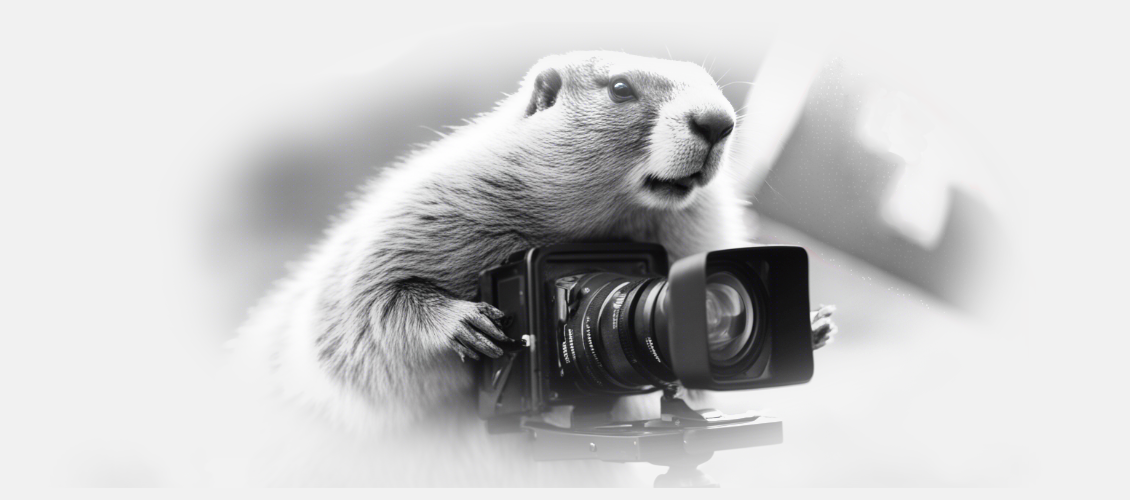
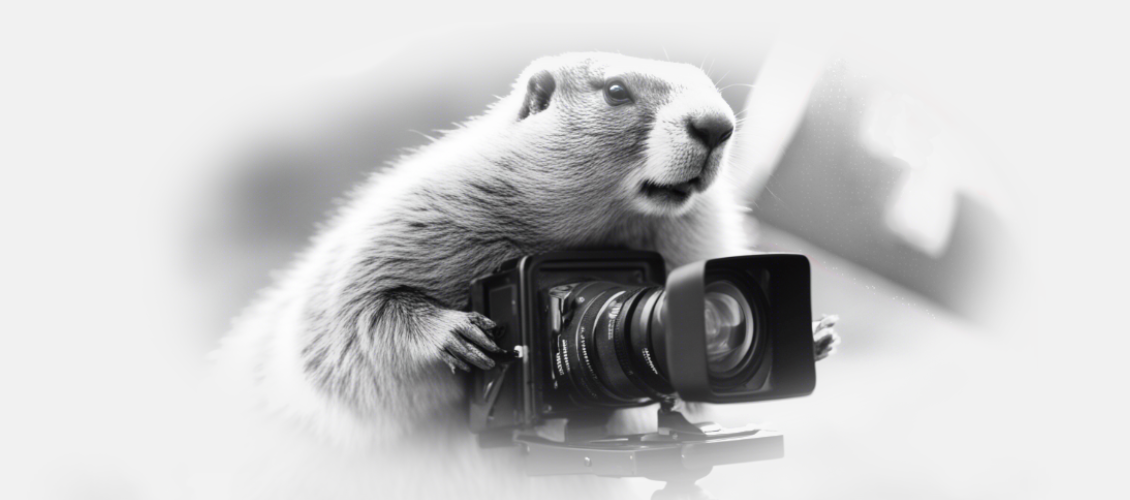
deploy: bd53ddb6d13e4023fa2d071ffb49345bf65f718e

diff --git a/index.html b/index.html
@@ -1,5 +1,5 @@
 <!doctype html><html class=no-js lang=fr-CH><head><meta name=generator content="Hugo 0.124.0"><meta charset=utf-8><meta http-equiv=x-ua-compatible content="ie=edge"><meta name=viewport content="width=device-width,initial-scale=1"><title>Index - Marmotte Productions</title>
-<meta name=description content="Page index du site (texte descriptif court + liste projets en cours)"><meta name=robots content="index, follow"><link rel="shortcut icon" href=/favicon.ico><style>@font-face{font-family:open sans;font-weight:600;font-style:normal;src:url(//fonts.gstatic.com/s/opensans/v13/MTP_ySUJH_bn48VBG8sNSnZ2MAKAc2x4R1uOSeegc5U.eot);src:url(//fonts.gstatic.com/s/opensans/v13/MTP_ySUJH_bn48VBG8sNSnZ2MAKAc2x4R1uOSeegc5U.eot?#iefix)format("embedded-opentype"),url(//fonts.gstatic.com/s/opensans/v13/MTP_ySUJH_bn48VBG8sNShampu5_7CjHW5spxoeN3Vs.woff2)format("woff2"),url(//fonts.gstatic.com/s/opensans/v13/MTP_ySUJH_bn48VBG8sNSqRDOzjiPcYnFooOUGCOsRk.woff)format("woff"),url(//fonts.gstatic.com/s/opensans/v13/MTP_ySUJH_bn48VBG8sNSonF5uFdDttMLvmWuJdhhgs.ttf)format("truetype"),url(//fonts.gstatic.com/l/font?kit=MTP_ySUJH_bn48VBG8sNSllIn5tFQcqMuf-jhyJP0ps&skey=a162967ffaa5aa08&v=v13#OpenSans)format("svg")}@font-face{font-family:open sans;font-weight:700;font-style:normal;src:url(//fonts.gstatic.com/s/opensans/v13/k3k702ZOKiLJc3WVjuplzHZ2MAKAc2x4R1uOSeegc5U.eot);src:url(//fonts.gstatic.com/s/opensans/v13/k3k702ZOKiLJc3WVjuplzHZ2MAKAc2x4R1uOSeegc5U.eot?#iefix)format("embedded-opentype"),local("Open Sans Bold"),local("Open-Sans-700"),url(//fonts.gstatic.com/s/opensans/v13/k3k702ZOKiLJc3WVjuplzBampu5_7CjHW5spxoeN3Vs.woff2)format("woff2"),url(//fonts.gstatic.com/s/opensans/v13/k3k702ZOKiLJc3WVjuplzKRDOzjiPcYnFooOUGCOsRk.woff)format("woff"),url(//fonts.gstatic.com/s/opensans/v13/k3k702ZOKiLJc3WVjuplzInF5uFdDttMLvmWuJdhhgs.ttf)format("truetype"),url(//fonts.gstatic.com/l/font?kit=k3k702ZOKiLJc3WVjuplzFlIn5tFQcqMuf-jhyJP0ps&skey=cd9e1a36bb25a3c3&v=v13#OpenSans)format("svg")}@font-face{font-family:open sans;font-weight:400;font-style:normal;src:url(//fonts.gstatic.com/s/opensans/v13/cJZKeOuBrn4kERxqtaUH3fY6323mHUZFJMgTvxaG2iE.eot);src:url(//fonts.gstatic.com/s/opensans/v13/cJZKeOuBrn4kERxqtaUH3fY6323mHUZFJMgTvxaG2iE.eot?#iefix)format("embedded-opentype"),local("Open Sans"),local("Open-Sans-regular"),url(//fonts.gstatic.com/s/opensans/v13/cJZKeOuBrn4kERxqtaUH3ZBw1xU1rKptJj_0jans920.woff2)format("woff2"),url(//fonts.gstatic.com/s/opensans/v13/cJZKeOuBrn4kERxqtaUH3bO3LdcAZYWl9Si6vvxL-qU.woff)format("woff"),url(//fonts.gstatic.com/s/opensans/v13/cJZKeOuBrn4kERxqtaUH3aCWcynf_cDxXwCLxiixG1c.ttf)format("truetype"),url(//fonts.gstatic.com/l/font?kit=cJZKeOuBrn4kERxqtaUH3Zbd9NUM7myrQQz30yPaGQ4&skey=62c1cbfccc78b4b2&v=v13#OpenSans)format("svg")}html,body,div,ul,li,h1,a,img,span,p{margin:0;padding:0;border:0;font-size:100%;font:inherit;vertical-align:baseline}body{font-family:open sans,helvetica neue,Helvetica,Arial,sans-serif;font-size:62.5%;line-height:1.5;background:#fff;color:#2f2f2f;overflow-x:hidden;text-rendering:geometricPrecision;-webkit-font-smoothing:antialiased;-moz-osx-font-smoothing:grayscale;hyphens:auto;-webkit-hyphens:auto}a{color:#c21b24;text-decoration:none}a:hover{color:#c21b24}ul{list-style:none}.padder{padding-left:2em;padding-right:2em}.accent-text{color:#c21b24}.default-text{color:#2f2f2f}.bold-text{font-weight:700}.transparent{opacity:0}.break-word{overflow-wrap:break-word;word-wrap:break-word;-ms-word-break:break-all;word-break:break-word;-ms-hyphens:auto;-moz-hyphens:auto;-webkit-hyphens:auto;hyphens:auto}.clearfix:after{content:"";display:block;clear:both}.nav-container,.header{background:#f1f1f1}.navbar{position:relative;z-index:5;height:7.1em;max-height:7.1em;padding-top:2em}.logo{float:left}.logo:before{display:inline-block;vertical-align:middle;content:'';height:100%;width:0}.logo img{vertical-align:middle;margin-top:-10px}.links{visibility:hidden;opacity:0;position:absolute;top:100%;right:-2em;left:-2em;padding:1em 0;background:#f1f1f1;text-align:center;-webkit-box-shadow:0 5px 7px 0 rgba(1,1,1,.1);box-shadow:0 5px 7px rgba(1,1,1,.1);-webkit-transition:opacity .4s;-o-transition:opacity .4s;transition:opacity .4s}.links li{padding:.5em 0}.links a{color:#797979;font-size:1.8em;font-weight:600;-webkit-transition:all 500ms;-moz-transition:all 500ms;-ms-transition:all 500ms;-o-transition:all 500ms;transition:all 500ms}.links a:hover{color:#2f2f2f}.links a.active{color:#2f2f2f}.main-description{position:relative}.main-description h1{position:relative;font-size:4em;font-weight:700;line-height:1.15;padding-top:1.3em;padding-bottom:1.3em;z-index:1}.main-description img{position:absolute;bottom:0;display:block;max-width:100%;height:auto}.category{margin-top:3em}.category.line{margin:0}.category-label{font-size:1.6em;font-weight:700;text-transform:uppercase}.category-title{font-size:3em;font-weight:700;text-transform:uppercase}.category-email{color:#797979;font-size:1.4em;font-weight:600;text-transform:lowercase}.category-content{color:#797979;font-size:1.8em;font-weight:600;margin-bottom:1em}.category-bio{color:#797979;font-size:1.8em;font-weight:600}.post h1,.post h2{position:relative;font-size:2em;font-weight:600;text-transform:uppercase}.post .content{font-size:1.85em;margin-bottom:20px;text-align:justify}.posts-list{position:relative;top:0}.posts-list .year{display:inline-block;font-size:3em;font-weight:700;color:#323232;left:0;padding-top:0}.posts-list .year::before{content:"";display:block;height:1em}.posts-list .date{font-size:1.75em;font-weight:500;color:#696969;left:0;padding-top:0}.animated{-webkit-animation-duration:1s;animation-duration:1s;-webkit-animation-fill-mode:both;animation-fill-mode:both}@-webkit-keyframes slideInDown{from{-webkit-transform:translate3d(0,-100%,0);transform:translate3d(0,-100%,0);visibility:visible}to{-webkit-transform:translate3d(0,0,0);transform:translate3d(0,0,0)}}@keyframes slideInDown{from{-webkit-transform:translate3d(0,-100%,0);transform:translate3d(0,-100%,0);visibility:visible}to{-webkit-transform:translate3d(0,0,0);transform:translate3d(0,0,0)}}.slideInDown{-webkit-animation-duration:1.3s;animation-duration:1.3s;-webkit-animation-name:slideInDown;animation-name:slideInDown}@-webkit-keyframes fadeIn{0%{opacity:0}40%{opacity:0}100%{opacity:1}}@keyframes fadeIn{0%{opacity:0}40%{opacity:0}100%{opacity:1}}.fadeIn{-webkit-animation-timing-function:linear;animation-timing-function:linear;-webkit-animation-name:fadeIn;animation-name:fadeIn}@media only screen and (min-width:22.5625em){.main-description h1{font-size:2.5em;padding-top:1.5em;padding-bottom:1.7em}.category-title{margin-bottom:0}}@media only screen and (min-width:33.5625em){.main-description h1{font-size:5.2em}.post h1,.post h2{font-size:2.5em;padding-left:111px}.post .content{padding-left:111px}.posts-list{position:relative;padding-top:10px}.posts-list .year{font-size:3em;font-weight:700;width:75px}.posts-list .year::before{height:0}.posts-list .date{display:inline-block;position:absolute;transform:translateY(5px);width:130px}}@media only screen and (min-width:46.3125em){.links{visibility:visible;opacity:1;position:static;float:right;width:auto;padding:0;height:100%;-webkit-box-shadow:none;box-shadow:none}.links:before{display:inline-block;vertical-align:middle;content:'';height:100%;width:0}.links li{display:inline-block;width:auto;margin-left:4em;vertical-align:middle}.burger-holder{display:none}.showBurger .burger-holder{display:block}.showBurger .links{visibility:hidden;opacity:0;position:absolute;float:none;height:auto;padding:1em 0;-webkit-box-shadow:0 5px 7px 0 rgba(1,1,1,.1);box-shadow:0 5px 7px rgba(1,1,1,.1)}.showBurger .links:before{display:none}.showBurger .links>li{display:list-item;margin:0}.main-description h1{font-size:5.4em;line-height:1.1428;padding-top:2.3148em;padding-bottom:2.3148em}.category{width:100%;float:left}.category>div{float:left}.category-label{width:20%;margin-bottom:0}.category-content{width:80%;margin-bottom:0}.category-bio{width:80%}.category-portrait{width:20%}.projects{margin-top:5em}.portraits{margin-top:5em}}@media only screen and (min-width:58.5em){.main-description h1{padding-bottom:3.907em}.category-label{width:20%}.category-content{width:80%}.category-bio{width:59%}.category-portrait{width:41%}}@media only screen and (min-width:73.125em){.container{max-width:117em;margin:0 auto}.showBurger .links{left:-100%;right:-100%}}</style><noscript id=deferredCss><link rel=stylesheet href=/css/app.min.9026319873d87678fc90e786fdd5ae8a4442526274f5699a7a35ce4399dd2b7c.css></noscript><script>document.createElement("picture")</script><script async src=https://cdn.jsdelivr.net/npm/picturefill@3.0.3/dist/picturefill.min.js integrity="sha256-iT+n/otuaeKCgxnASny7bxKeqCDbaV1M7VdX1ZRQtqg=" crossorigin=anonymous></script></head><body><!--[if lte IE 9]><p class=browserupgrade>You are using an <strong>outdated</strong> browser. Please <a href=https://browsehappy.com/>upgrade your browser</a> to improve your experience and security.</p><![endif]--><noscript>For full functionality of this site it is necessary to enable JavaScript. Here are the <a href=//www.enable-javascript.com target=_blank rel="noreferrer nofollow">instructions how to enable JavaScript in your web browser</a>.</noscript><div class=main-container><div class=nav-container><div class=container><div class=padder><div class="navbar animated slideInDown"><div class=logo><a href=https://www.marmotteproductions.ch/><img src=/img/logo.png alt="Marmotte Productions"></a></div><div class=burger-holder><div class=burger><div class=top></div><div class=middle></div><div class=bottom></div></div></div><ul class=links><li><a href=/news>News</a></li><li><a href=/projets>Projets</a></li><li><a href=/apropos>À propos</a></li><li><a href=/contact>Contact</a></li></ul></div></div></div></div><div class=header><div class=container><div class=padder><div class="main-description animated fadeIn"><h1 class=break-word>Bienvenue dans la tanière de <span class=accent-text>Marmotte Productions</span> !</h1><picture><source media="(max-width: 46.25em)" srcset="/uploads/home-marmotte_hu77c5c5570c30bb219d511851bc96f4c8_407612_848x443_fit_box_3.png 848w, /uploads/home-marmotte_hu77c5c5570c30bb219d511851bc96f4c8_407612_565x420_fit_box_3.png 565w, /uploads/home-marmotte_hu77c5c5570c30bb219d511851bc96f4c8_407612_360x318_fit_box_3.png 360w"><img src=/uploads/home-marmotte_hu77c5c5570c30bb219d511851bc96f4c8_407612_1130x500_fill_box_smart1_3.png alt="A marmot holding a clapperboard"></picture></div></div></div></div><div class=container><div class=padder><div class="categories clearfix bottom-space"><div class=category><div class=category-label>Intro</div><div class=category-content>Marmotte Productions est une société de production de films de cinéma suisse fondée par trois associés en 2021.</div></div></div><div class="categories clearfix bottom-space"><div class=category><div class=category-label>News</div><div class=category-content><ul><li>08.03.2024 | <a href=news>Casting pour un des rôles titres de « Les Dieux » de Anas Sareen.</a></li><li>18.09.2023 | <a href=news>Les Dieux de Anas Sareen soutenu par l'OFC</a></li><li>01.07.2023 | <a href=news>Les cimes sélectionné au Forum de Namur</a></li><li>10.06.2023 | <a href=news>L'Assigné de Aude Sublet reçoit le soutien de l'OFC</a></li><li>27.03.2023 | <a href=news>Le projet « L’assigné » de Aude Sublet soutenu par Cinéforom.</a></li></ul></div></div></div><ul class="projects clearfix"><li class=project><a href=/projets/everythingistemporary><picture><source media="(max-width: 46.25em)" srcset="/uploads/films/everythingistemporary/cover_hu5453958987c5332a7f10d1059b9d4b58_1305040_848x443_fill_box_smart1_3.png 848w, /uploads/films/everythingistemporary/cover_hu5453958987c5332a7f10d1059b9d4b58_1305040_565x420_fill_box_smart1_3.png 565w, /uploads/films/everythingistemporary/cover_hu5453958987c5332a7f10d1059b9d4b58_1305040_360x318_fill_box_left_3.png 360w"><img src=/uploads/films/everythingistemporary/cover_hu5453958987c5332a7f10d1059b9d4b58_1305040_1130x590_fill_box_smart1_3.png alt></picture><div class=project-hover><div class=project-caption><div class="break-word project-title">Everything is temporary</div><div class="break-word project-type">Long-métrage documentaire
+<meta name=description content="Page index du site (texte descriptif court + liste projets en cours)"><meta name=robots content="index, follow"><link rel="shortcut icon" href=/favicon.ico><style>@font-face{font-family:open sans;font-weight:600;font-style:normal;src:url(//fonts.gstatic.com/s/opensans/v13/MTP_ySUJH_bn48VBG8sNSnZ2MAKAc2x4R1uOSeegc5U.eot);src:url(//fonts.gstatic.com/s/opensans/v13/MTP_ySUJH_bn48VBG8sNSnZ2MAKAc2x4R1uOSeegc5U.eot?#iefix)format("embedded-opentype"),url(//fonts.gstatic.com/s/opensans/v13/MTP_ySUJH_bn48VBG8sNShampu5_7CjHW5spxoeN3Vs.woff2)format("woff2"),url(//fonts.gstatic.com/s/opensans/v13/MTP_ySUJH_bn48VBG8sNSqRDOzjiPcYnFooOUGCOsRk.woff)format("woff"),url(//fonts.gstatic.com/s/opensans/v13/MTP_ySUJH_bn48VBG8sNSonF5uFdDttMLvmWuJdhhgs.ttf)format("truetype"),url(//fonts.gstatic.com/l/font?kit=MTP_ySUJH_bn48VBG8sNSllIn5tFQcqMuf-jhyJP0ps&skey=a162967ffaa5aa08&v=v13#OpenSans)format("svg")}@font-face{font-family:open sans;font-weight:700;font-style:normal;src:url(//fonts.gstatic.com/s/opensans/v13/k3k702ZOKiLJc3WVjuplzHZ2MAKAc2x4R1uOSeegc5U.eot);src:url(//fonts.gstatic.com/s/opensans/v13/k3k702ZOKiLJc3WVjuplzHZ2MAKAc2x4R1uOSeegc5U.eot?#iefix)format("embedded-opentype"),local("Open Sans Bold"),local("Open-Sans-700"),url(//fonts.gstatic.com/s/opensans/v13/k3k702ZOKiLJc3WVjuplzBampu5_7CjHW5spxoeN3Vs.woff2)format("woff2"),url(//fonts.gstatic.com/s/opensans/v13/k3k702ZOKiLJc3WVjuplzKRDOzjiPcYnFooOUGCOsRk.woff)format("woff"),url(//fonts.gstatic.com/s/opensans/v13/k3k702ZOKiLJc3WVjuplzInF5uFdDttMLvmWuJdhhgs.ttf)format("truetype"),url(//fonts.gstatic.com/l/font?kit=k3k702ZOKiLJc3WVjuplzFlIn5tFQcqMuf-jhyJP0ps&skey=cd9e1a36bb25a3c3&v=v13#OpenSans)format("svg")}@font-face{font-family:open sans;font-weight:400;font-style:normal;src:url(//fonts.gstatic.com/s/opensans/v13/cJZKeOuBrn4kERxqtaUH3fY6323mHUZFJMgTvxaG2iE.eot);src:url(//fonts.gstatic.com/s/opensans/v13/cJZKeOuBrn4kERxqtaUH3fY6323mHUZFJMgTvxaG2iE.eot?#iefix)format("embedded-opentype"),local("Open Sans"),local("Open-Sans-regular"),url(//fonts.gstatic.com/s/opensans/v13/cJZKeOuBrn4kERxqtaUH3ZBw1xU1rKptJj_0jans920.woff2)format("woff2"),url(//fonts.gstatic.com/s/opensans/v13/cJZKeOuBrn4kERxqtaUH3bO3LdcAZYWl9Si6vvxL-qU.woff)format("woff"),url(//fonts.gstatic.com/s/opensans/v13/cJZKeOuBrn4kERxqtaUH3aCWcynf_cDxXwCLxiixG1c.ttf)format("truetype"),url(//fonts.gstatic.com/l/font?kit=cJZKeOuBrn4kERxqtaUH3Zbd9NUM7myrQQz30yPaGQ4&skey=62c1cbfccc78b4b2&v=v13#OpenSans)format("svg")}html,body,div,ul,li,h1,a,img,span,p{margin:0;padding:0;border:0;font-size:100%;font:inherit;vertical-align:baseline}body{font-family:open sans,helvetica neue,Helvetica,Arial,sans-serif;font-size:62.5%;line-height:1.5;background:#fff;color:#2f2f2f;overflow-x:hidden;text-rendering:geometricPrecision;-webkit-font-smoothing:antialiased;-moz-osx-font-smoothing:grayscale;hyphens:auto;-webkit-hyphens:auto}a{color:#c21b24;text-decoration:none}a:hover{color:#c21b24}ul{list-style:none}.padder{padding-left:2em;padding-right:2em}.accent-text{color:#c21b24}.default-text{color:#2f2f2f}.bold-text{font-weight:700}.transparent{opacity:0}.break-word{overflow-wrap:break-word;word-wrap:break-word;-ms-word-break:break-all;word-break:break-word;-ms-hyphens:auto;-moz-hyphens:auto;-webkit-hyphens:auto;hyphens:auto}.clearfix:after{content:"";display:block;clear:both}.nav-container,.header{background:#f1f1f1}.navbar{position:relative;z-index:5;height:7.1em;max-height:7.1em;padding-top:2em}.logo{float:left}.logo:before{display:inline-block;vertical-align:middle;content:'';height:100%;width:0}.logo img{vertical-align:middle;margin-top:-10px}.links{visibility:hidden;opacity:0;position:absolute;top:100%;right:-2em;left:-2em;padding:1em 0;background:#f1f1f1;text-align:center;-webkit-box-shadow:0 5px 7px 0 rgba(1,1,1,.1);box-shadow:0 5px 7px rgba(1,1,1,.1);-webkit-transition:opacity .4s;-o-transition:opacity .4s;transition:opacity .4s}.links li{padding:.5em 0}.links a{color:#797979;font-size:1.8em;font-weight:600;-webkit-transition:all 500ms;-moz-transition:all 500ms;-ms-transition:all 500ms;-o-transition:all 500ms;transition:all 500ms}.links a:hover{color:#2f2f2f}.links a.active{color:#2f2f2f}.main-description{position:relative}.main-description h1{position:relative;font-size:4em;font-weight:700;line-height:1.15;padding-top:1.3em;padding-bottom:1.3em;z-index:1}.main-description img{position:absolute;bottom:0;display:block;max-width:100%;height:auto}.category{margin-top:3em}.category.line{margin:0}.category-label{font-size:1.6em;font-weight:700;text-transform:uppercase}.category-title{font-size:3em;font-weight:700;text-transform:uppercase}.category-email{color:#797979;font-size:1.4em;font-weight:600;text-transform:lowercase}.category-content{color:#797979;font-size:1.8em;font-weight:600;margin-bottom:1em}.category-bio{color:#797979;font-size:1.8em;font-weight:600}.post h1,.post h2{position:relative;font-size:2em;font-weight:600;text-transform:uppercase}.post .content{font-size:1.85em;margin-bottom:20px;text-align:justify}.posts-list{position:relative;top:0}.posts-list .year{display:inline-block;font-size:3em;font-weight:700;color:#323232;left:0;padding-top:0}.posts-list .year::before{content:"";display:block;height:1em}.posts-list .date{font-size:1.75em;font-weight:500;color:#696969;left:0;padding-top:0}.animated{-webkit-animation-duration:1s;animation-duration:1s;-webkit-animation-fill-mode:both;animation-fill-mode:both}@-webkit-keyframes slideInDown{from{-webkit-transform:translate3d(0,-100%,0);transform:translate3d(0,-100%,0);visibility:visible}to{-webkit-transform:translate3d(0,0,0);transform:translate3d(0,0,0)}}@keyframes slideInDown{from{-webkit-transform:translate3d(0,-100%,0);transform:translate3d(0,-100%,0);visibility:visible}to{-webkit-transform:translate3d(0,0,0);transform:translate3d(0,0,0)}}.slideInDown{-webkit-animation-duration:1.3s;animation-duration:1.3s;-webkit-animation-name:slideInDown;animation-name:slideInDown}@-webkit-keyframes fadeIn{0%{opacity:0}40%{opacity:0}100%{opacity:1}}@keyframes fadeIn{0%{opacity:0}40%{opacity:0}100%{opacity:1}}.fadeIn{-webkit-animation-timing-function:linear;animation-timing-function:linear;-webkit-animation-name:fadeIn;animation-name:fadeIn}@media only screen and (min-width:22.5625em){.main-description h1{font-size:2.5em;padding-top:1.5em;padding-bottom:1.7em}.category-title{margin-bottom:0}}@media only screen and (min-width:33.5625em){.main-description h1{font-size:5.2em}.post h1,.post h2{font-size:2.5em;padding-left:111px}.post .content{padding-left:111px}.posts-list{position:relative;padding-top:10px}.posts-list .year{font-size:3em;font-weight:700;width:75px}.posts-list .year::before{height:0}.posts-list .date{display:inline-block;position:absolute;transform:translateY(5px);width:130px}}@media only screen and (min-width:46.3125em){.links{visibility:visible;opacity:1;position:static;float:right;width:auto;padding:0;height:100%;-webkit-box-shadow:none;box-shadow:none}.links:before{display:inline-block;vertical-align:middle;content:'';height:100%;width:0}.links li{display:inline-block;width:auto;margin-left:4em;vertical-align:middle}.burger-holder{display:none}.showBurger .burger-holder{display:block}.showBurger .links{visibility:hidden;opacity:0;position:absolute;float:none;height:auto;padding:1em 0;-webkit-box-shadow:0 5px 7px 0 rgba(1,1,1,.1);box-shadow:0 5px 7px rgba(1,1,1,.1)}.showBurger .links:before{display:none}.showBurger .links>li{display:list-item;margin:0}.main-description h1{font-size:5.4em;line-height:1.1428;padding-top:2.3148em;padding-bottom:2.3148em}.category{width:100%;float:left}.category>div{float:left}.category-label{width:20%;margin-bottom:0}.category-content{width:80%;margin-bottom:0}.category-bio{width:80%}.category-portrait{width:20%}.projects{margin-top:5em}.portraits{margin-top:5em}}@media only screen and (min-width:58.5em){.main-description h1{padding-bottom:3.907em}.category-label{width:20%}.category-content{width:80%}.category-bio{width:59%}.category-portrait{width:41%}}@media only screen and (min-width:73.125em){.container{max-width:117em;margin:0 auto}.showBurger .links{left:-100%;right:-100%}}</style><noscript id=deferredCss><link rel=stylesheet href=/css/app.min.9026319873d87678fc90e786fdd5ae8a4442526274f5699a7a35ce4399dd2b7c.css></noscript><script>document.createElement("picture")</script><script async src=https://cdn.jsdelivr.net/npm/picturefill@3.0.3/dist/picturefill.min.js integrity="sha256-iT+n/otuaeKCgxnASny7bxKeqCDbaV1M7VdX1ZRQtqg=" crossorigin=anonymous></script></head><body><!--[if lte IE 9]><p class=browserupgrade>You are using an <strong>outdated</strong> browser. Please <a href=https://browsehappy.com/>upgrade your browser</a> to improve your experience and security.</p><![endif]--><noscript>For full functionality of this site it is necessary to enable JavaScript. Here are the <a href=//www.enable-javascript.com target=_blank rel="noreferrer nofollow">instructions how to enable JavaScript in your web browser</a>.</noscript><div class=main-container><div class=nav-container><div class=container><div class=padder><div class="navbar animated slideInDown"><div class=logo><a href=https://www.marmotteproductions.ch/><img src=/img/logo.png alt="Marmotte Productions"></a></div><div class=burger-holder><div class=burger><div class=top></div><div class=middle></div><div class=bottom></div></div></div><ul class=links><li><a href=/news>News</a></li><li><a href=/projets>Projets</a></li><li><a href=/apropos>À propos</a></li><li><a href=/contact>Contact</a></li></ul></div></div></div></div><div class=header><div class=container><div class=padder><div class="main-description animated fadeIn"><h1 class=break-word>Bienvenue dans la tanière de <span class=accent-text>Marmotte Productions</span> !</h1><picture><source media="(max-width: 46.25em)" srcset="/uploads/home-marmotte_hu482de8a137e4db0088543989504aec77_393762_848x443_fit_box_3.png 848w, /uploads/home-marmotte_hu482de8a137e4db0088543989504aec77_393762_565x420_fit_box_3.png 565w, /uploads/home-marmotte_hu482de8a137e4db0088543989504aec77_393762_360x318_fit_box_3.png 360w"><img src=/uploads/home-marmotte_hu482de8a137e4db0088543989504aec77_393762_1130x500_fill_box_smart1_3.png alt="A marmot holding a clapperboard"></picture></div></div></div></div><div class=container><div class=padder><div class="categories clearfix bottom-space"><div class=category><div class=category-label>Intro</div><div class=category-content>Marmotte Productions est une société de production de films de cinéma suisse fondée par trois associés en 2021.</div></div></div><div class="categories clearfix bottom-space"><div class=category><div class=category-label>News</div><div class=category-content><ul><li>08.03.2024 | <a href=news>Casting pour un des rôles titres de « Les Dieux » de Anas Sareen.</a></li><li>18.09.2023 | <a href=news>Les Dieux de Anas Sareen soutenu par l'OFC</a></li><li>01.07.2023 | <a href=news>Les cimes sélectionné au Forum de Namur</a></li><li>10.06.2023 | <a href=news>L'Assigné de Aude Sublet reçoit le soutien de l'OFC</a></li><li>27.03.2023 | <a href=news>Le projet « L’assigné » de Aude Sublet soutenu par Cinéforom.</a></li></ul></div></div></div><ul class="projects clearfix"><li class=project><a href=/projets/everythingistemporary><picture><source media="(max-width: 46.25em)" srcset="/uploads/films/everythingistemporary/cover_hu5453958987c5332a7f10d1059b9d4b58_1305040_848x443_fill_box_smart1_3.png 848w, /uploads/films/everythingistemporary/cover_hu5453958987c5332a7f10d1059b9d4b58_1305040_565x420_fill_box_smart1_3.png 565w, /uploads/films/everythingistemporary/cover_hu5453958987c5332a7f10d1059b9d4b58_1305040_360x318_fill_box_left_3.png 360w"><img src=/uploads/films/everythingistemporary/cover_hu5453958987c5332a7f10d1059b9d4b58_1305040_1130x590_fill_box_smart1_3.png alt></picture><div class=project-hover><div class=project-caption><div class="break-word project-title">Everything is temporary</div><div class="break-word project-type">Long-métrage documentaire
 de
 Juliette Klinke</div><div class="break-word project-pitch">En août 2020, Juliette part au Myanmar pour rejoindre son compagnon. Elle y rencontre Zu Zu, jeune fille de 17 ans qui tient un stand de nourriture au bord d’une route. Zu Zu attend que les universités fermées à cause du Covid ouvrent à nouveau, afin de pouvoir réaliser son rêve de devenir policière. Progressivement, une forte relation se crée entre les deux jeunes femmes. Le 1er février 2021, le pays subit un coup d'État militaire, qui mène à mal les ambitions de Zu Zu et piège Juliette au Myanmar. Leur attachement profond l’une pour l’autre devient alors leur refuge.</div></div></div></a></li></ul><ul class="projects clearfix"><li class=project><a href=/projets/laluneseleve><picture><source media="(max-width: 46.25em)" srcset="/uploads/films/laluneseleve/cover_hue3f89e3879bf76fdf97a69fc09f95a77_1116120_848x443_fill_q75_box_smart1.jpg 848w, /uploads/films/laluneseleve/cover_hue3f89e3879bf76fdf97a69fc09f95a77_1116120_565x420_fill_q75_box_smart1.jpg 565w, /uploads/films/laluneseleve/cover_hue3f89e3879bf76fdf97a69fc09f95a77_1116120_360x318_fill_q75_box_left.jpg 360w"><img src=/uploads/films/laluneseleve/cover_hue3f89e3879bf76fdf97a69fc09f95a77_1116120_1130x590_fill_q75_box_smart1.jpg alt></picture><div class=project-hover><div class=project-caption><div class="break-word project-title">La lune se lève</div><div class="break-word project-type">Court-métrage de fiction
 de
